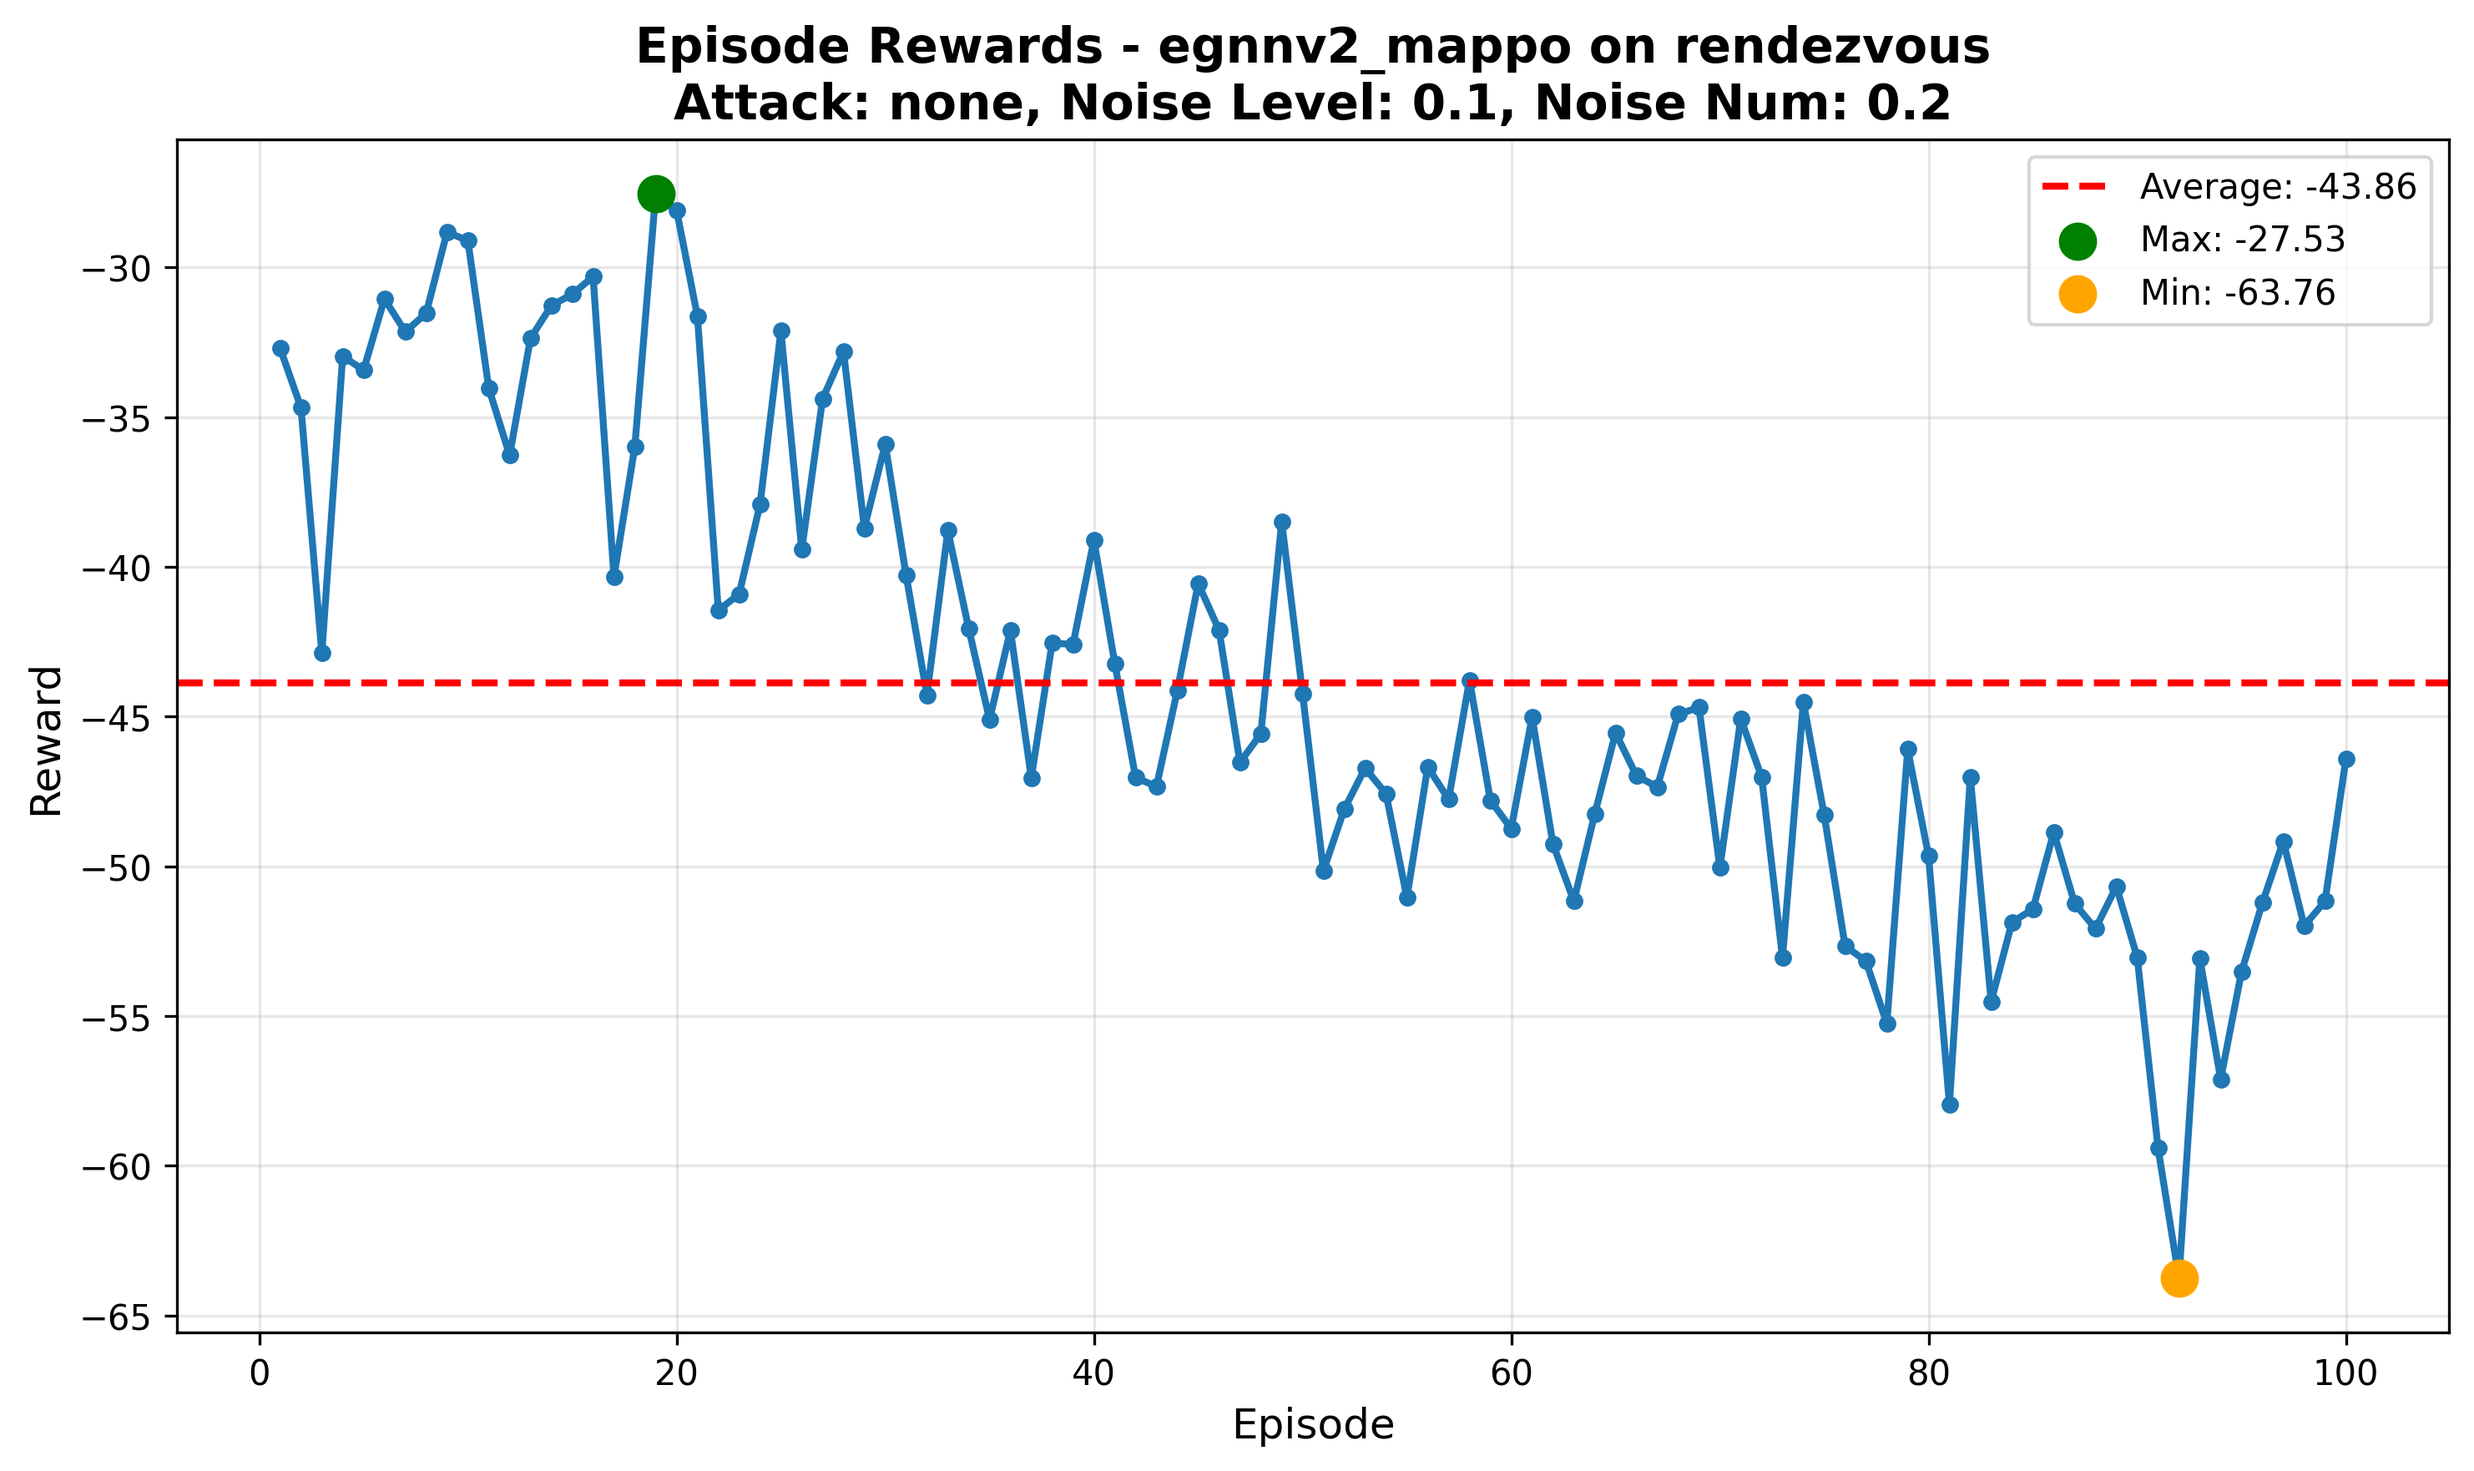
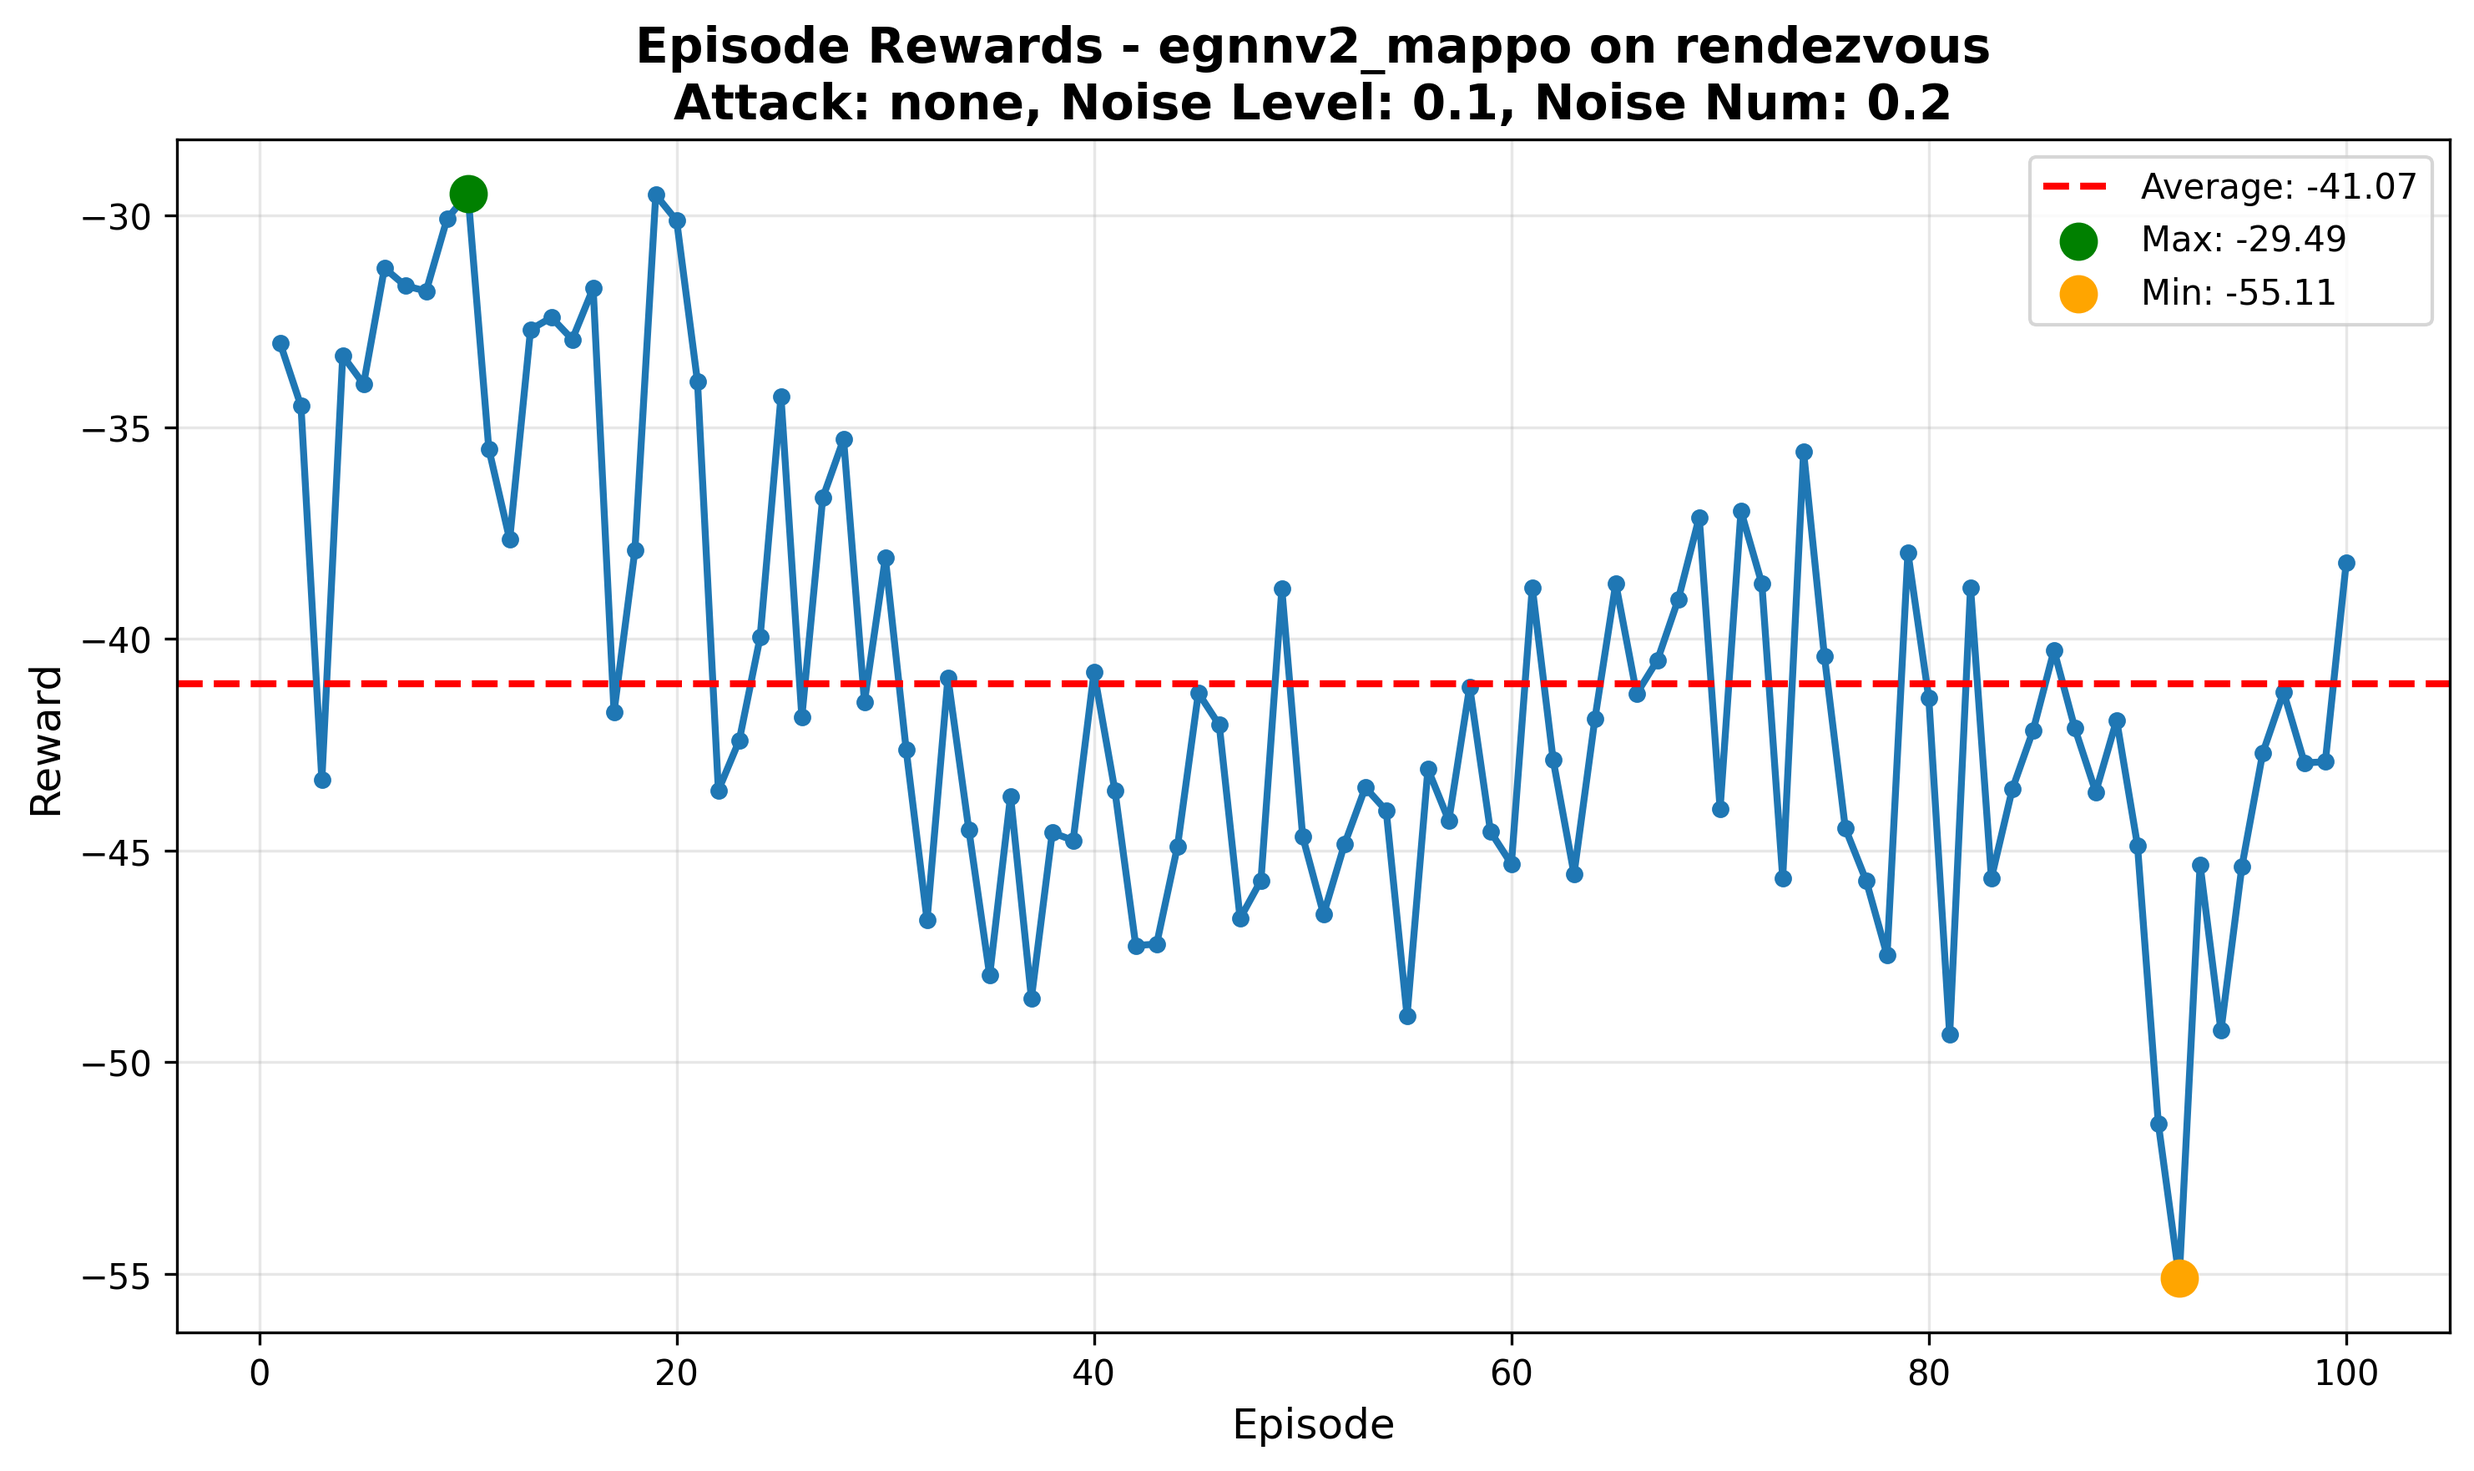
范数

diff --git a/EGH-MARL-play/harl/runners/on_policy_ma_eval_trainattack_runner.py b/EGH-MARL-play/harl/runners/on_policy_ma_eval_trainattack_runner.py
@@ -218,7 +218,7 @@ class OnPolicyMATrainAttackRunner(OnPolicyBaseRunner):
         
 
     #@torch.no_grad()
-    def eval(self,episodes,attack_config, noise_level=0.1,noise_num=0.1):
+    def eval(self,episodes,attack_config, noise_level=0.1,noise_num=4.0):
         """Evaluate the model."""
         print("Evaluate the model.")   
         reward_episode_list = []  
@@ -298,9 +298,16 @@ class OnPolicyMATrainAttackRunner(OnPolicyBaseRunner):
                     attack_obs[thread, :, :] = torch.randn(self.num_agents, 34).clamp(-1, 1)
                     maddpg_actions_list.append({f'agent_{agent_id}': attack_obs[thread, agent_id, :].numpy() for agent_id in range(self.num_agents)})
 
-            eval_obs = eval_obs + noise_level * attack_obs.numpy()
+            #eval_obs = eval_obs + noise_level * attack_obs.numpy()
+            attack_obs_np = attack_obs.numpy()
+            norm = np.linalg.norm(attack_obs_np)
+            if norm > 0:
+                attack_obs_normalized = attack_obs_np / norm * noise_num
+            else:
+                attack_obs_normalized = attack_obs_np
+            eval_obs = eval_obs + noise_level * attack_obs_normalized
             eval_obs = np.clip(eval_obs, -1.0, 1.0)  # clip the observation to a reasonable range
-            
+            #print(attack_obs[0][0])
             #self.actor[0].actor.zero_grad()
             self.logger.episode_init(
                 eval_episode
@@ -396,6 +403,8 @@ class OnPolicyMATrainAttackRunner(OnPolicyBaseRunner):
                     eval_rewards = np.sum(self.logger.one_episode_rewards[eval_i], axis=0)
                     #print('-')
                     print(f'episode {eval_episode} reward: {eval_rewards[0][0]}')
+                    #print(attack_obs[0][0])
+                    #print(torch.norm(attack_obs[0][0]))
                     reward_episode_list.append(eval_rewards[0][0])
                     total_rewards += eval_rewards[0][0]
                     self.logger.eval_thread_done(
